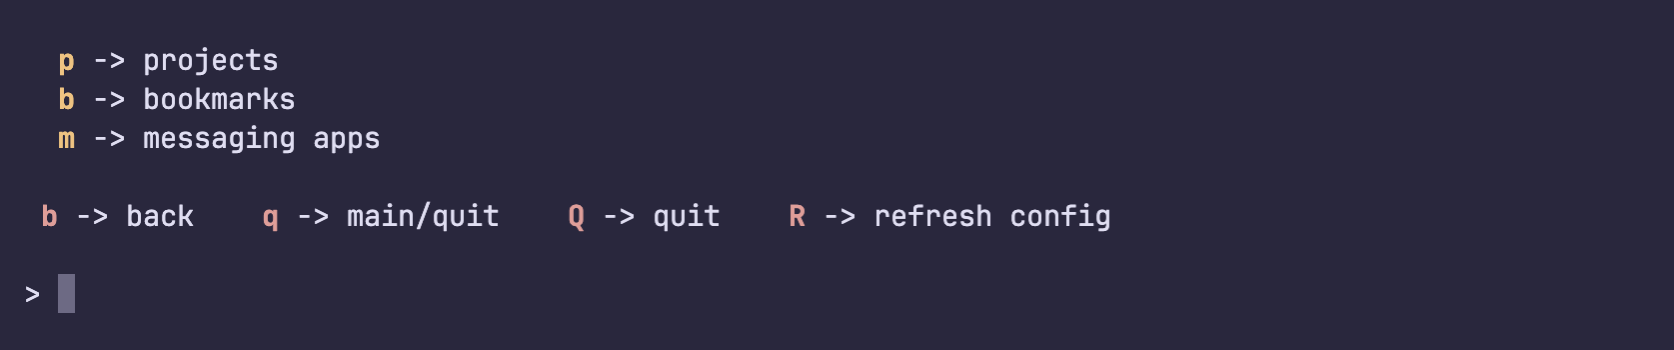
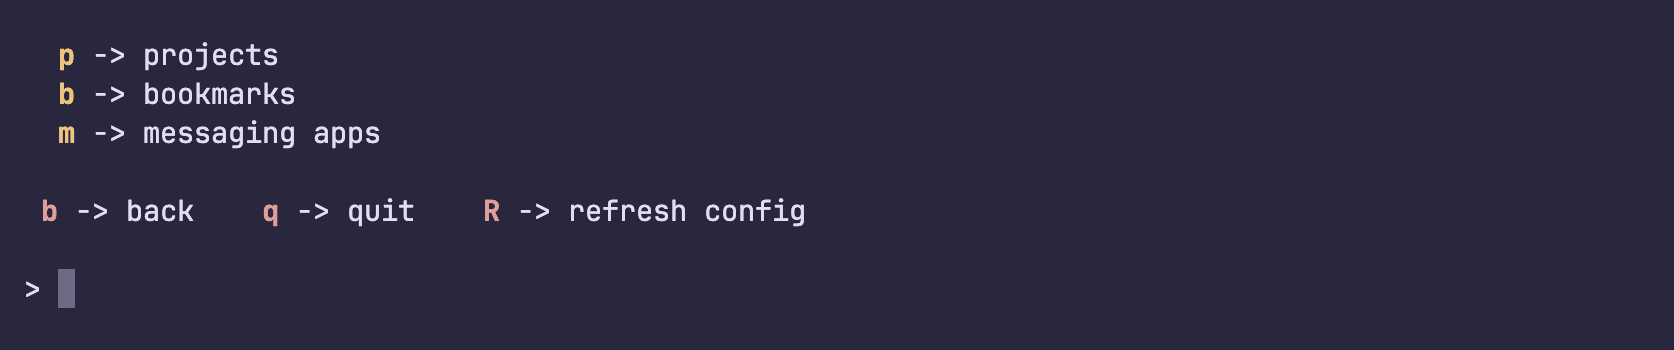
Simplify quitting behavior

diff --git a/keynav/cli.py b/keynav/cli.py
@@ -51,7 +51,7 @@ def display_menu(menu: dict, breadcrumb: str = ""):
     for key, item in menu.items():
         print(f"  {BOLD}{YELLOW}{key}{RESET} -> {item['label']}")
     print(
-        f"\n {BOLD}{CYAN}b{RESET} -> back    {BOLD}{CYAN}q{RESET} -> main/quit    {BOLD}{CYAN}Q{RESET} -> quit    {BOLD}{CYAN}R{RESET} -> refresh config"
+        f"\n {BOLD}{CYAN}b{RESET} -> back    {BOLD}{CYAN}q{RESET} -> quit    {BOLD}{CYAN}R{RESET} -> refresh config"
     )
     print()
 
@@ -80,7 +80,7 @@ def navigate(menu: dict, breadcrumb: str = "", parent_stack=None, main_menu=None
         choice = readchar.readkey()
         print(choice)
 
-        if choice == "Q":
+        if choice == "q":
             sys.exit(0)
         if choice == "b":
             if parent_stack:
@@ -89,15 +89,6 @@ def navigate(menu: dict, breadcrumb: str = "", parent_stack=None, main_menu=None
             else:
                 print("Already at the main menu.")
                 continue
-        if choice == "q":
-            if not parent_stack:
-                # At main menu, exit
-                sys.exit(0)
-            else:
-                # Go back to main menu
-                while parent_stack:
-                    prev_menu, prev_breadcrumb, prev_stack = parent_stack.pop(0)
-                return prev_menu, prev_breadcrumb, prev_stack
         if choice == "R":
             # Refresh config and return to main menu
             print("Refreshing config...")
